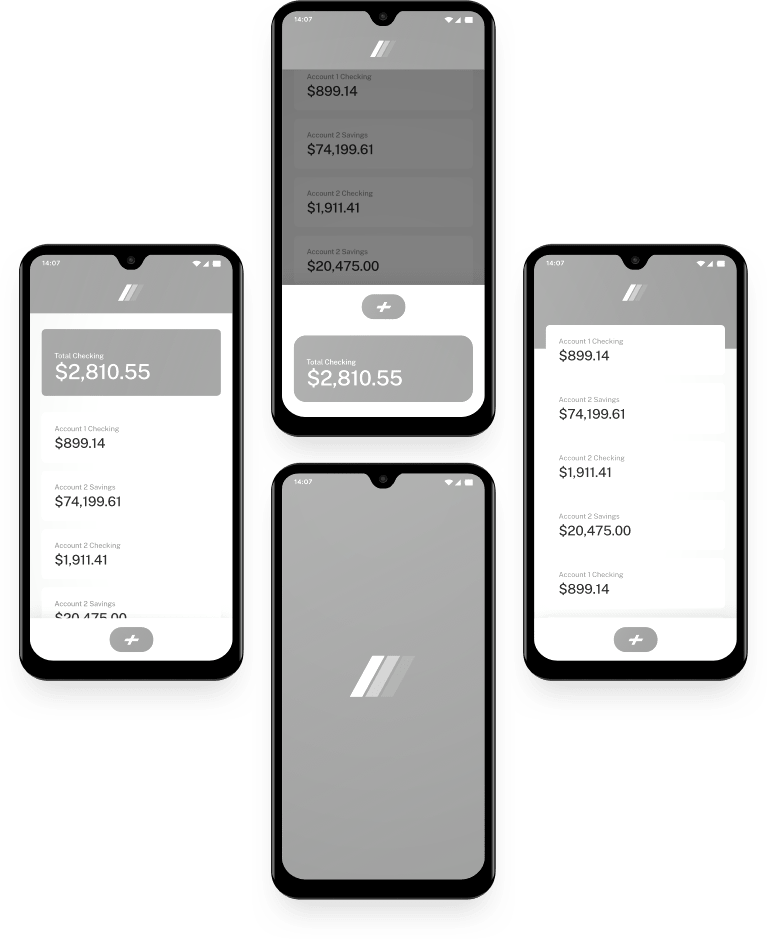
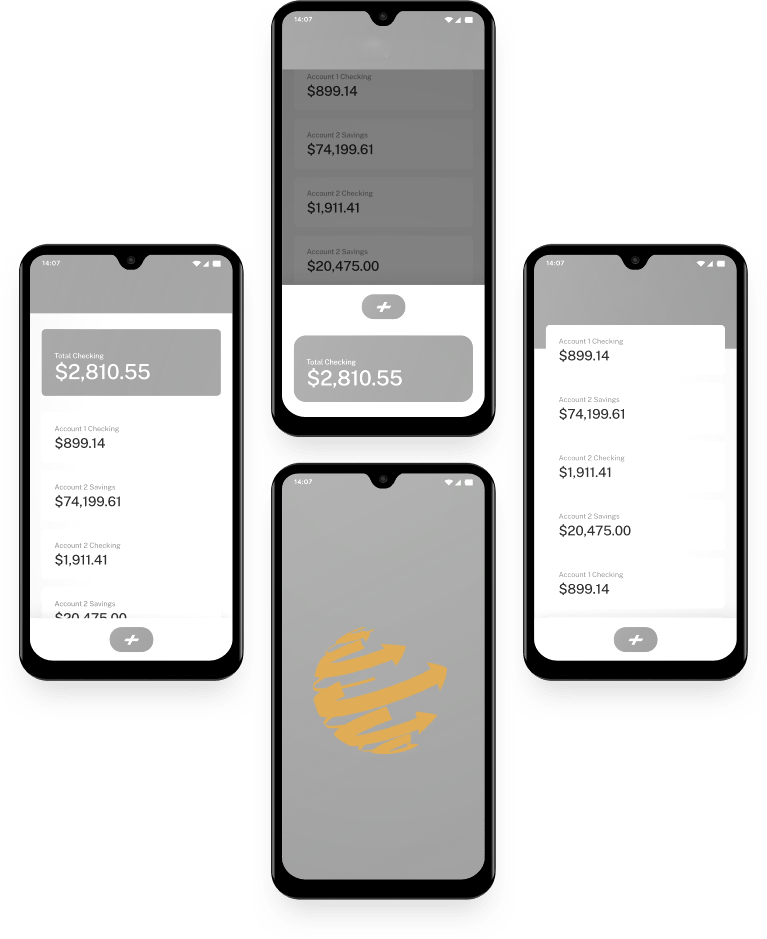
Updates

diff --git a/index.html b/index.html
@@ -85,7 +85,7 @@
     <div class="overlay"></div>
     <nav class="container container--pall flex flex-jc-sb flex-ai-c" id="nav-bar">
       <a href="/" class="header__logo">
-        <img id="header-img" src="./img/new-logo.svg" alt="BNKING" />
+        <img id="header-img" src="./img/logo.svg" alt="BNKING" />
       </a>
 
       <a href="#" class="header__burger hide-for-desktop">
@@ -242,7 +242,7 @@
       <ul class="footer-contact-info">
         <li>
           <a href="./index.html" class="footer__logo">
-            <img id="header-img" src="./img/new-logo.svg" alt="BNKING">
+            <img id="header-img" src="./img/logo.svg" alt="BNKING">
           </a>
         </li>
         <li>
